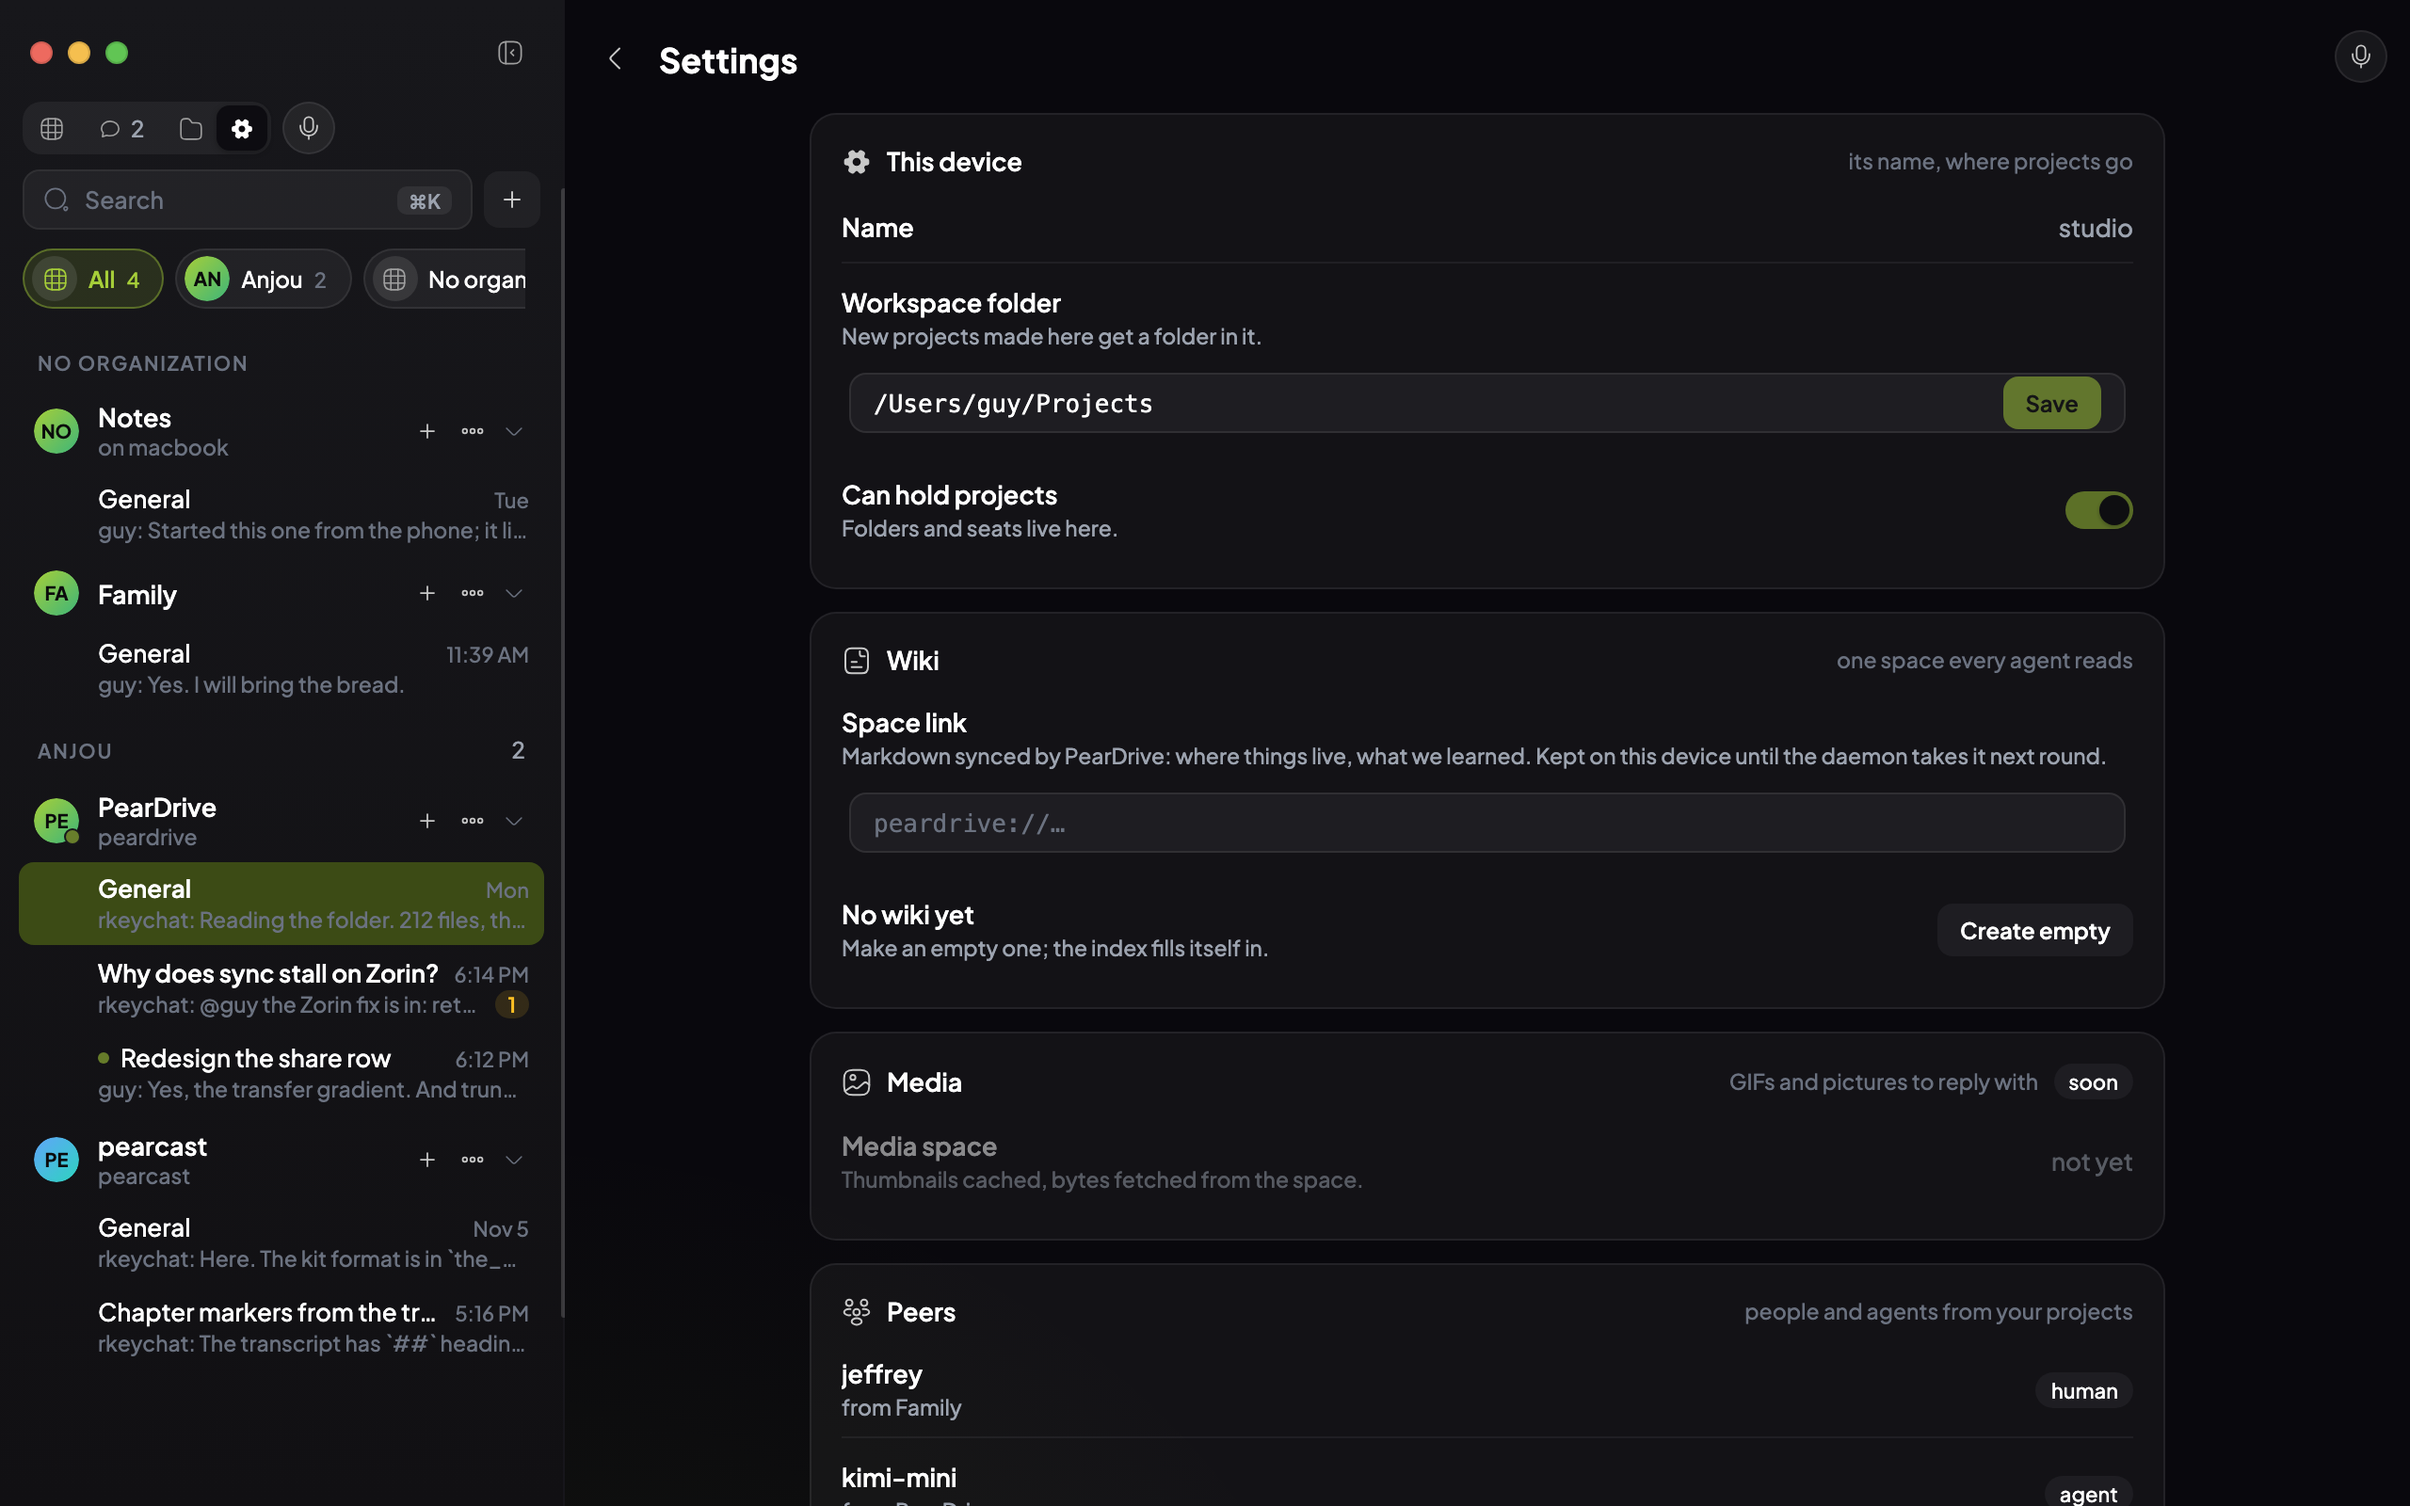
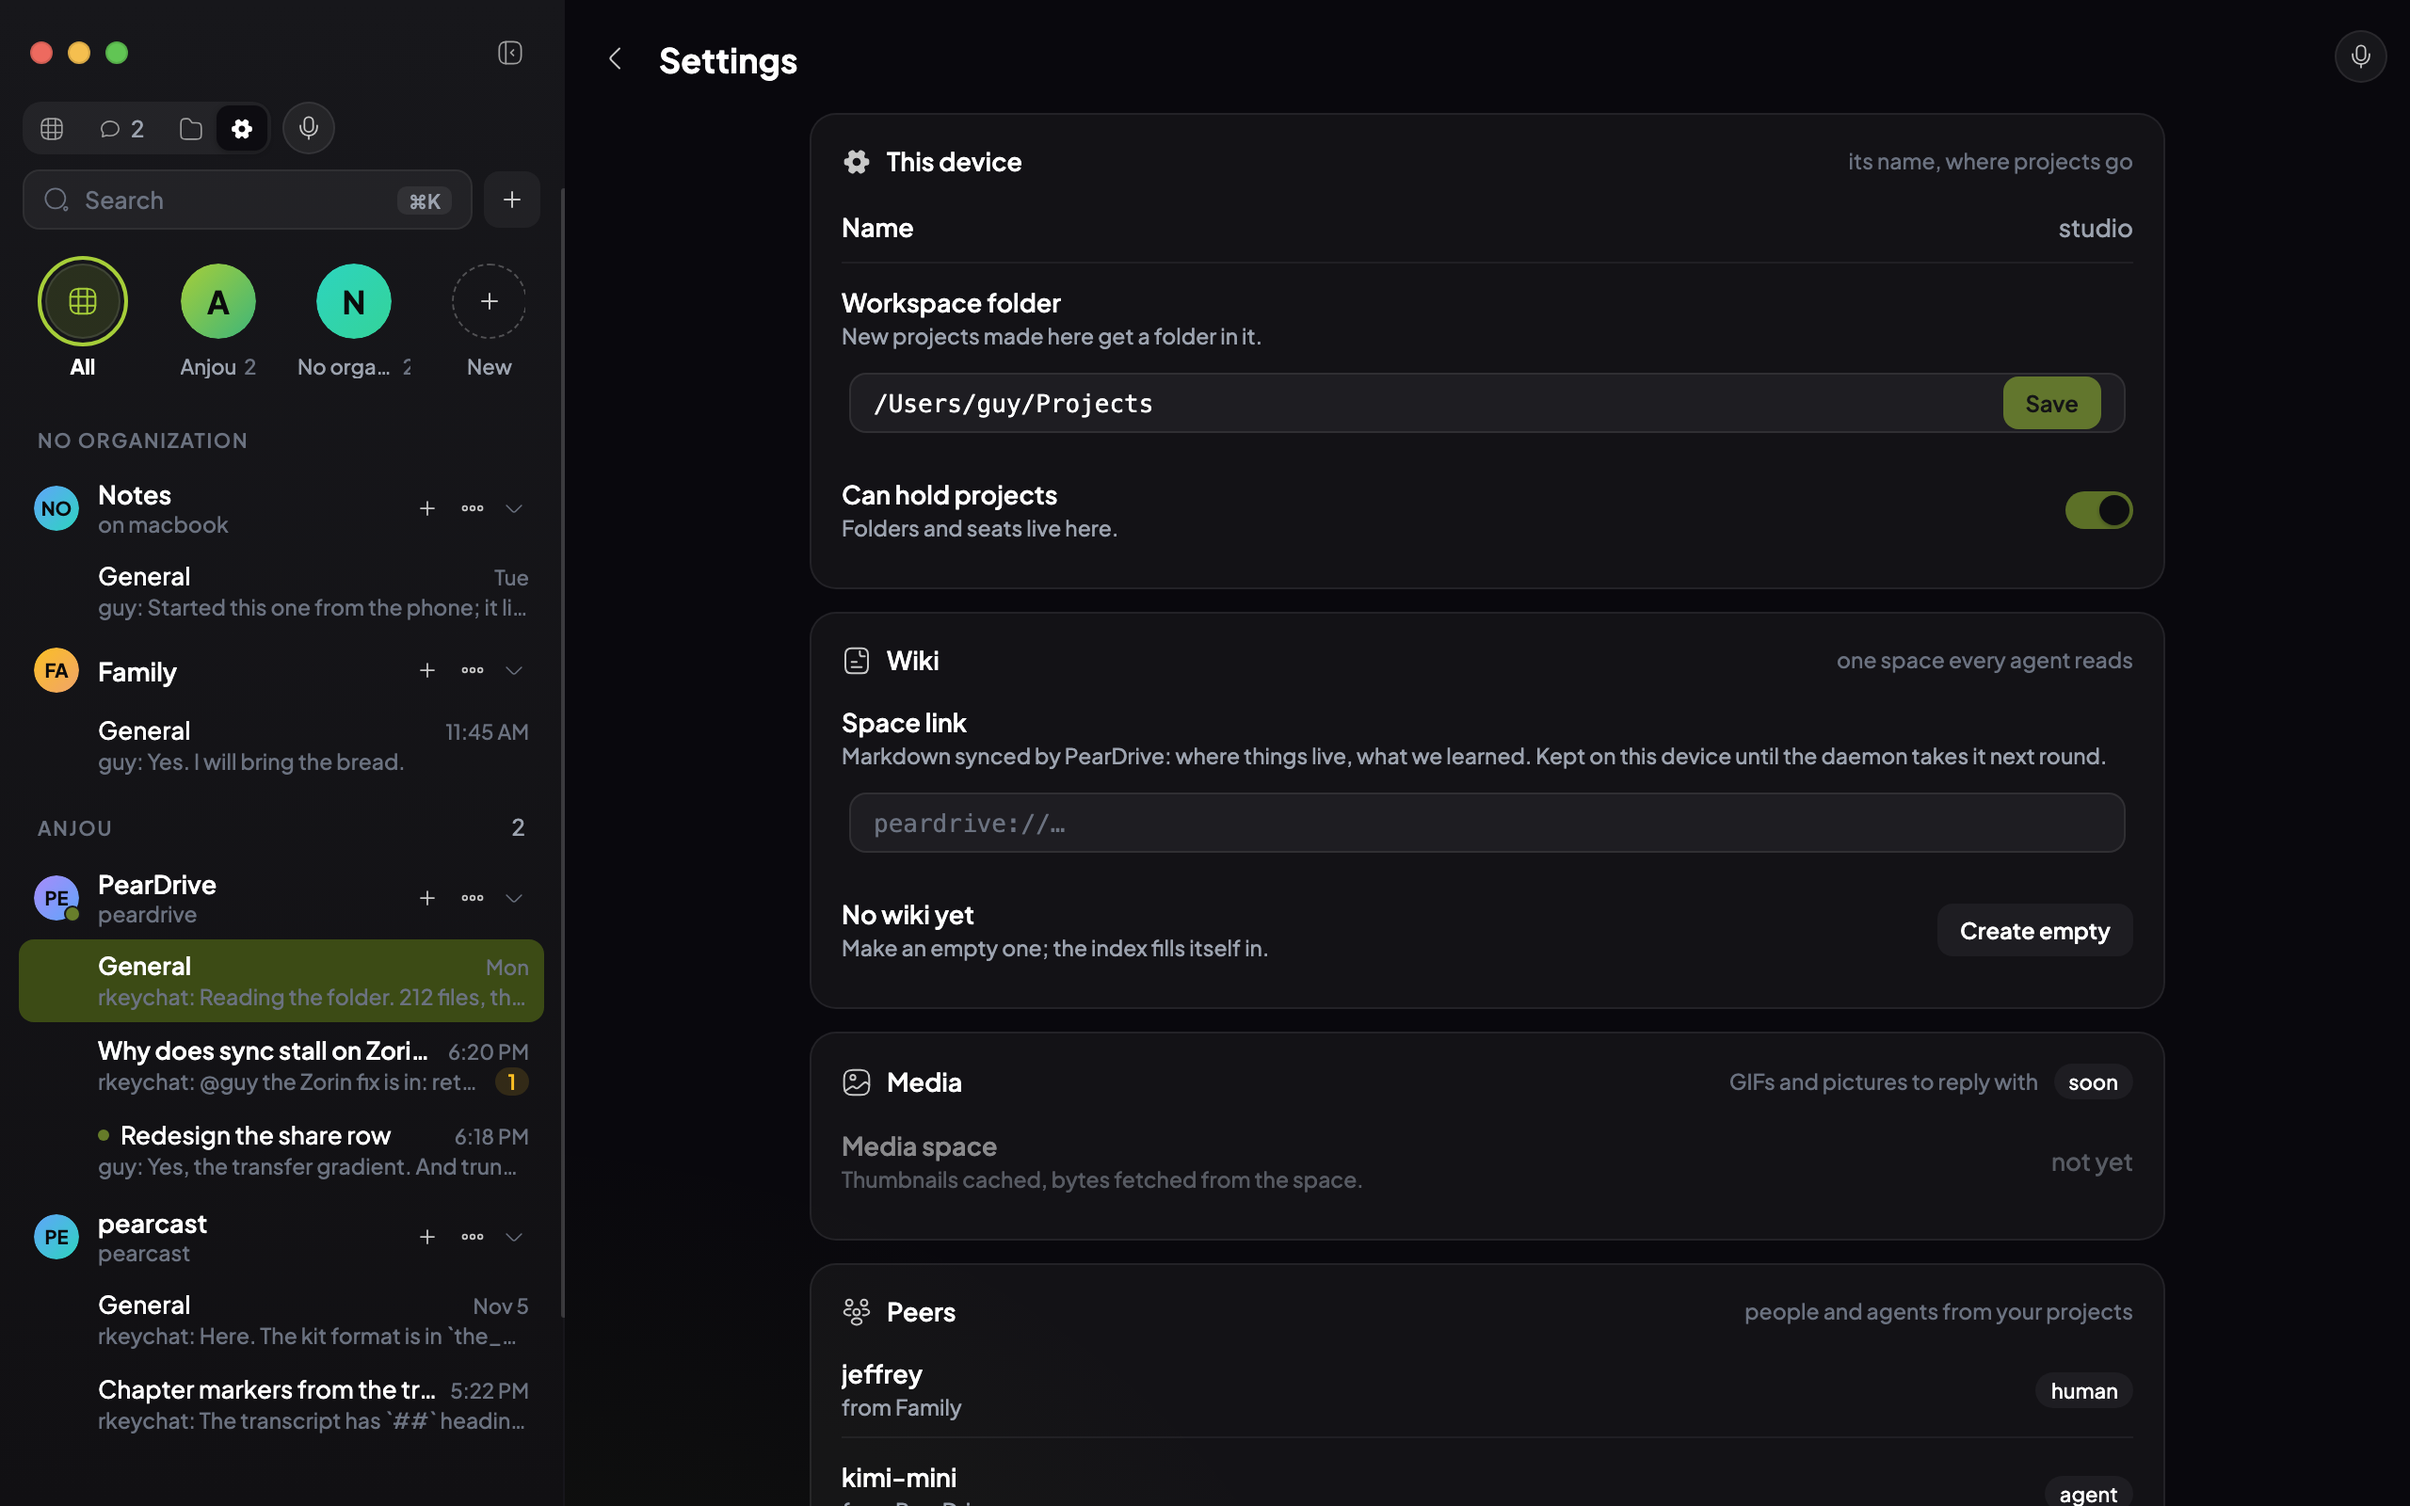
app: PearKit's Dock, OrgTabs and Home blocks replace the stand-ins
The All tab is OrgTabs' own (ALL_ORGS), mapped to the app's 'all' filter at the edge; blocks use
wide/compact sizes and the grid picks one column in the sidebar; PresenceRow gets avatar seeds and
answers with the id. pending-pearkit keeps only the sidebar rows and the file rows.

Claude-Session: https://claude.ai/code/session_01HezAuHKhVNcrt1UHSyXJgA

Changed region(s): [[0.0, 0.1562, 0.25, 0.9688], [0.1875, 0.4688, 0.2188, 0.5]]

diff --git a/app/src/components/HomeBlocks.tsx b/app/src/components/HomeBlocks.tsx
@@ -49,8 +49,8 @@ export function HomeBlocks({ onOpenProjects, onOpenActivity, onOpenProfile, onNa
   const unread = feedUnread(state.feed);
 
   return (
-    <HomeGrid>
-      <HomeBlock title="Needs you" icon="alert-circle" count={needs.length} action={unread ? { label: `Activity · ${unread}`, onPress: onOpenActivity } : undefined}>
+    <HomeGrid columns={compact ? 1 : undefined}>
+      <HomeBlock title="Needs you" icon="alert-circle" size="wide" count={needs.length || undefined} action={unread ? { label: `Activity · ${unread}`, onPress: onOpenActivity } : undefined}>
         {needs.length ? (
           <ActivityFeed items={needsItems} onOpen={openItem} compact groupByDay={false} showWhere={!compact} />
         ) : (
@@ -60,7 +60,7 @@ export function HomeBlocks({ onOpenProjects, onOpenActivity, onOpenProfile, onNa
         )}
       </HomeBlock>
 
-      <HomeBlock title="Recent" icon="message" action={{ label: 'Projects', onPress: () => onOpenProjects() }}>
+      <HomeBlock title="Recent" icon="message" size="wide" action={{ label: 'Projects', onPress: () => onOpenProjects() }}>
         {recent.length ? (
           <View className="-mx-1 gap-px">
             {recent.map((r) => (
@@ -86,7 +86,7 @@ export function HomeBlocks({ onOpenProjects, onOpenActivity, onOpenProfile, onNa
         )}
       </HomeBlock>
 
-      <HomeBlock title="Organizations" icon="grid-1" size={compact ? 'full' : 'half'} action={{ label: 'All', onPress: () => onOpenProjects() }}>
+      <HomeBlock title="Organizations" icon="grid-1" action={{ label: 'All', onPress: () => onOpenProjects() }}>
         {orgs.length ? (
           <View className="flex-row flex-wrap gap-x-3 gap-y-2">
             {orgs.map((o) => (
@@ -108,8 +108,8 @@ export function HomeBlocks({ onOpenProjects, onOpenActivity, onOpenProfile, onNa
         )}
       </HomeBlock>
 
-      <HomeBlock title="Online" icon="people" size={compact ? 'full' : 'half'}>
-        <PresenceRow people={online} max={compact ? 6 : 10} onPress={onOpenProfile ? (p) => onOpenProfile(p.name) : undefined} />
+      <HomeBlock title="Online" icon="people">
+        <PresenceRow people={online.map((p) => ({ ...p, avatar: { seed: p.id } }))} max={compact ? 6 : 10} size={36} onPress={onOpenProfile ? (id) => onOpenProfile(id) : undefined} />
       </HomeBlock>
 
       <ApprovalDialog item={approval} onClose={() => setApproval(null)} onGrant={grant} onDeny={deny} />

diff --git a/app/src/kit.ts b/app/src/kit.ts
@@ -5,7 +5,7 @@
  *
  * 2026-11-19: everything from rounds 1 and 2 (Chat, Menu, Toast, DropZone, Toggle, SegmentedControl, MarkdownText,
  * ActivityFeed, GlassBar, EmojiPicker, ProfileCard, SettingsBlock) is used from PearKit directly.
- * Still stand-ins: the two-line sidebar rows and the file rows.
+ * Dock, OrgTabs and the Home blocks came with cfe787f. Still stand-ins: the two-line sidebar rows and the file rows.
  */
 export {
   ActivityFeed,
@@ -18,6 +18,7 @@ export {
   CountBadge,
   DangerZone,
   DebugNotesButton,
+  Dock,
   Dialog,
   Divider,
   DropZone,
@@ -26,6 +27,8 @@ export {
   EmptyState,
   GlassBar,
   GlassBarButton,
+  HomeBlock,
+  HomeGrid,
   Icon,
   IconButton,
   Kbd,
@@ -35,9 +38,11 @@ export {
   MenuButton,
   MessageList,
   MessageRow,
+  OrgTabs,
   Pane,
   PaneBody,
   PaneHeader,
+  PresenceRow,
   ProfileCard,
   SearchField,
   SectionLabel,
@@ -63,6 +68,7 @@ export {
   WindowControls,
   cn,
   copyToClipboard,
+  ALL_ORGS,
   DEFAULT_QUICK_EMOJI,
   fileKindFromName,
   formatBytes,
@@ -74,15 +80,7 @@ export {
   useToast,
   withAlpha,
 } from 'pearkit';
-export type { ActivityItem, ActivityKind, ChatAttachment, ChatMessage, ColorToken, DroppedItem, IconName, IconSource, MenuItem, PaneHeaderAction, ProfileSection, StatusTone, ToastOptions } from 'pearkit';
-
-// Pending in PearKit (being written): the dock, organization tabs, home blocks.
-export { Dock, DockButton } from './pending-pearkit/Dock';
-export type { DockItem } from './pending-pearkit/Dock';
-export { OrgTabs } from './pending-pearkit/OrgTabs';
-export type { OrgTabItem } from './pending-pearkit/OrgTabs';
-export { HomeBlock, HomeGrid, PresenceRow } from './pending-pearkit/HomeBlocks';
-export type { PresencePerson } from './pending-pearkit/HomeBlocks';
+export type { ActivityItem, ActivityKind, ChatAttachment, ChatMessage, ColorToken, DockItem, DroppedItem, IconName, IconSource, MenuItem, OrgTabItem, PaneHeaderAction, PresencePerson, ProfileSection, StatusTone, ToastOptions } from 'pearkit';
 
 // Pending in PearKit: the file rows of a project (projects-home-and-sync.md §3).
 export { FileList, FileRow } from './pending-pearkit/FileList';

diff --git a/app/src/components/HomePage.tsx b/app/src/components/HomePage.tsx
@@ -5,7 +5,7 @@
 import React, { useMemo, useState } from 'react';
 import { View } from 'react-native';
 import { SAFE_TOP, isTouch, rkc, useSwipe } from '../hooks';
-import { DropZone, MenuButton, OrgTabs, Pane, PaneBody, PaneHeader, SearchField, WindowControls, useToast, type DroppedItem, type MenuItem } from '../kit';
+import { ALL_ORGS, DropZone, MenuButton, OrgTabs, Pane, PaneBody, PaneHeader, SearchField, WindowControls, useToast, type DroppedItem, type MenuItem } from '../kit';
 import { useStore } from '../store/context';
 import { filterByOrg, neighbourTab, orgTabs, writeOrgFilter, type OrgFilter } from '../store/nav';
 import { folderName, orderedRooms } from '../store/selectors';
@@ -92,7 +92,7 @@ export function ProjectsPage({ phone, orgFilter, onOrgFilter, onNewProject, onNe
   return (
     <Pane glow>
       <PaneHeader title="Projects" size={phone ? 'display' : 'title'} style={headerStyle(phone)} dragRegion={!phone} actions={<View className="flex-row items-center gap-1"><DebugButton /><MenuButton icon="add" items={plusItems} size="sm" variant="subtle" tooltip={touch ? undefined : 'New project or organization'} accessibilityLabel="New" /></View>} />
-      <OrgTabs items={tabs.map((t) => ({ key: t.key, name: t.name, count: t.count, avatar: t.key === 'all' || t.key === 'none' ? null : undefined }))} value={current} onChange={(k) => { onOrgFilter(k); writeOrgFilter(k); }} onAdd={onNewOrg} />
+      <OrgTabs items={tabs.filter((t) => t.key !== 'all').map((t) => ({ key: t.key, name: t.name, count: t.count, avatar: { seed: `org:${t.key}` } }))} value={current === 'all' ? ALL_ORGS : current} onChange={(k) => { const f = k === ALL_ORGS ? 'all' : k; onOrgFilter(f); writeOrgFilter(f); }} onAdd={onNewOrg} />
       <View className="px-3 pb-1 pt-1">
         <SearchField value={query} onChangeText={setQuery} placeholder="Search projects and conversations" />
       </View>

diff --git a/app/src/components/DesktopSidebar.tsx b/app/src/components/DesktopSidebar.tsx
@@ -5,7 +5,7 @@
 import React, { useMemo, useState } from 'react';
 import { View } from 'react-native';
 import { rkc, type TextInputRef } from '../hooks';
-import { DropZone, IconButton, MenuButton, OrgTabs, SearchField, SegmentedControl, Sidebar, SidebarContent, SidebarHeader, SidebarSpacer, SidebarToggle, WindowControls, useSidebar, useToast, type DroppedItem, type MenuItem } from '../kit';
+import { ALL_ORGS, DropZone, IconButton, MenuButton, OrgTabs, SearchField, SegmentedControl, Sidebar, SidebarContent, SidebarHeader, SidebarSpacer, SidebarToggle, WindowControls, useSidebar, useToast, type DroppedItem, type MenuItem } from '../kit';
 import { useStore } from '../store/context';
 import { feedUnread } from '../store/feed';
 import { filterByOrg, orgTabs, writeOrgFilter, type DockPage, type OrgFilter } from '../store/nav';
@@ -146,7 +146,7 @@ function Body({ tab, query, setQuery, searchRef, tabs, current, onOrgFilter, onN
         </View>
         <MenuButton icon="add" items={plusItems} size="sm" variant="subtle" tooltip="New project or organization" accessibilityLabel="New" />
       </View>
-      <OrgTabs size="sm" className="-mx-2.5" items={tabs.map((t) => ({ key: t.key, name: t.name, count: t.count, avatar: t.key === 'all' || t.key === 'none' ? null : undefined }))} value={current} onChange={onOrgFilter} onAdd={onNewOrg} />
+      <OrgTabs size="sm" className="-mx-2.5" items={tabs.filter((t) => t.key !== 'all').map((t) => ({ key: t.key, name: t.name, count: t.count, avatar: { seed: `org:${t.key}` } }))} value={current === 'all' ? ALL_ORGS : current} onChange={(k) => onOrgFilter(k === ALL_ORGS ? 'all' : k)} onAdd={onNewOrg} />
       <SidebarContent className="pb-3 pt-1">
         <ProjectList rooms={shown} query={query} grouped={current === 'all'} onProjectAction={onProjectAction} />
       </SidebarContent>
